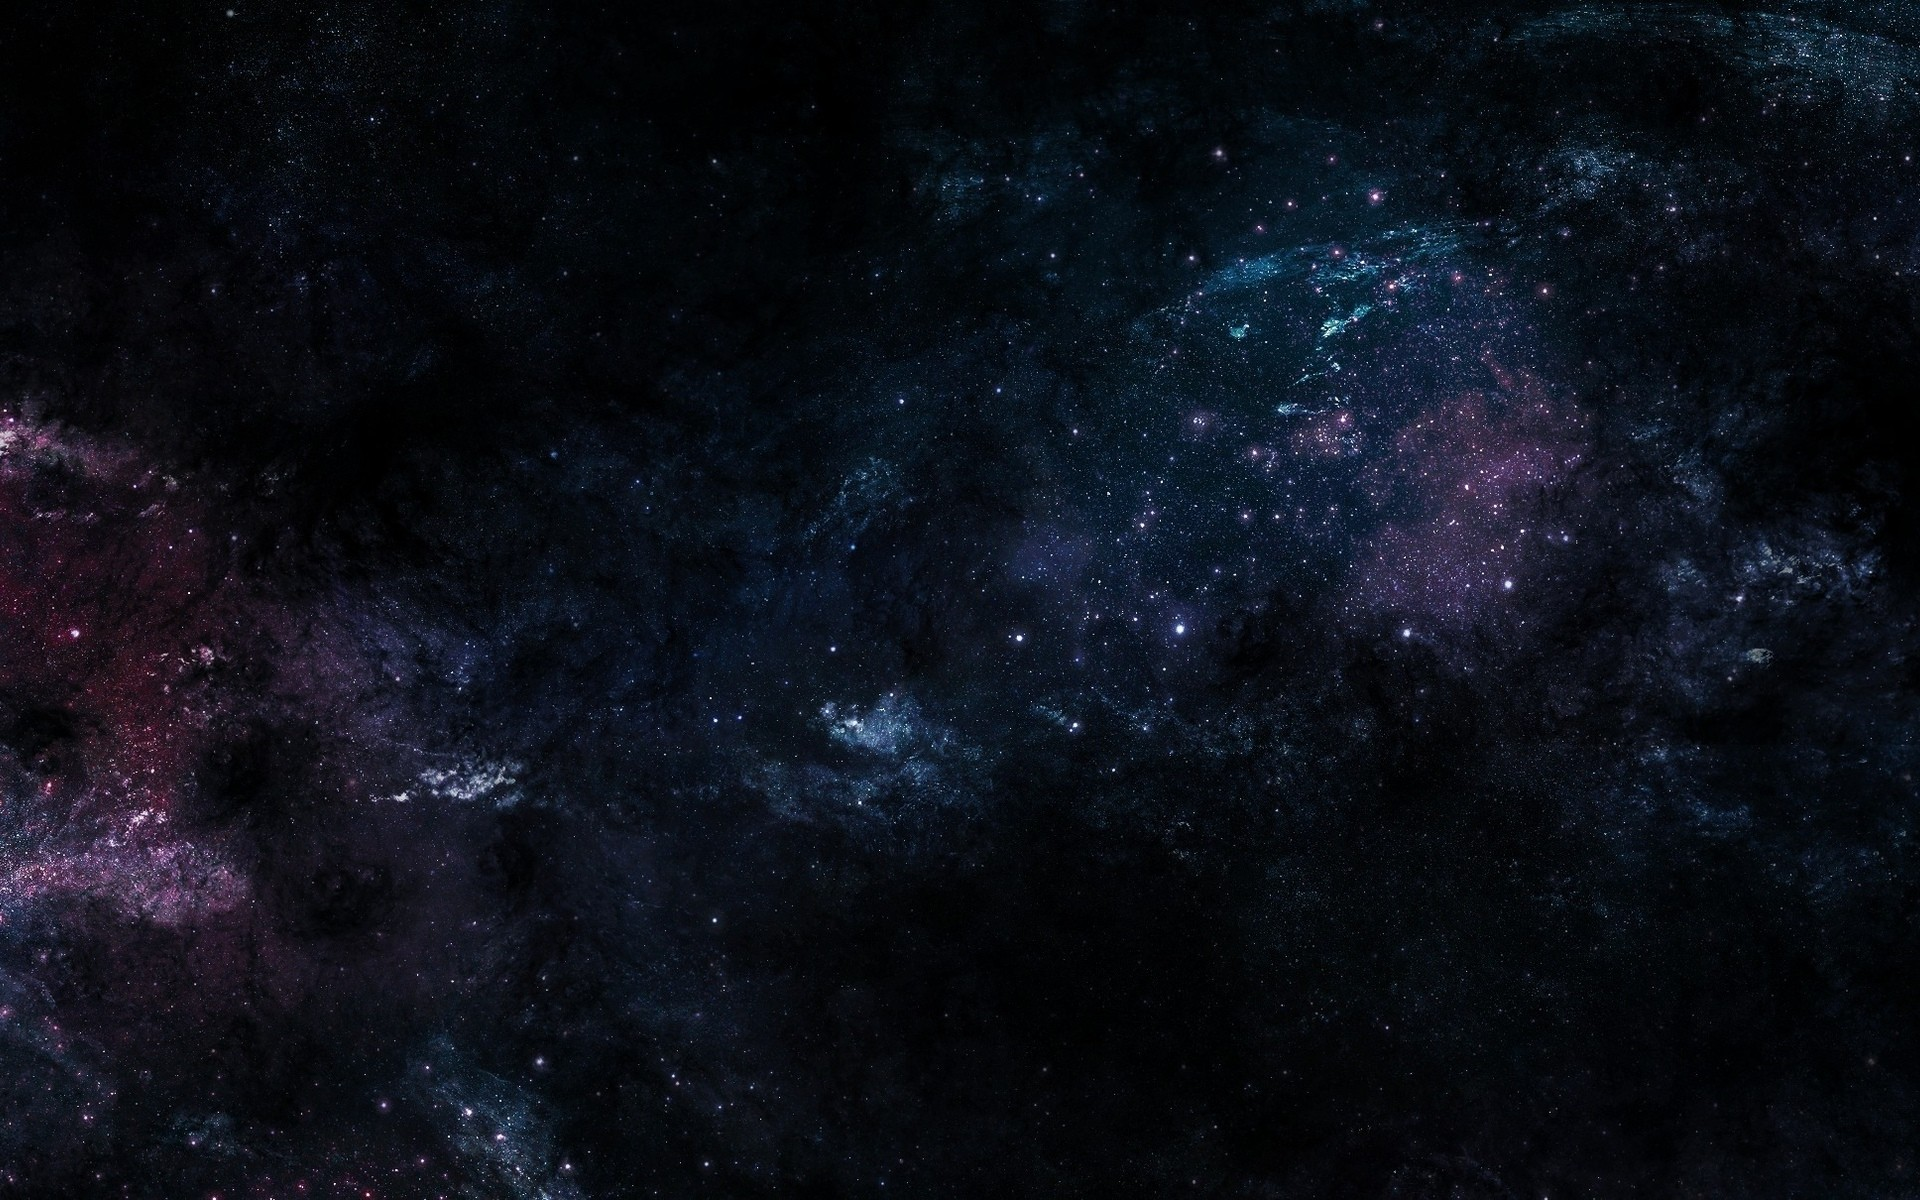
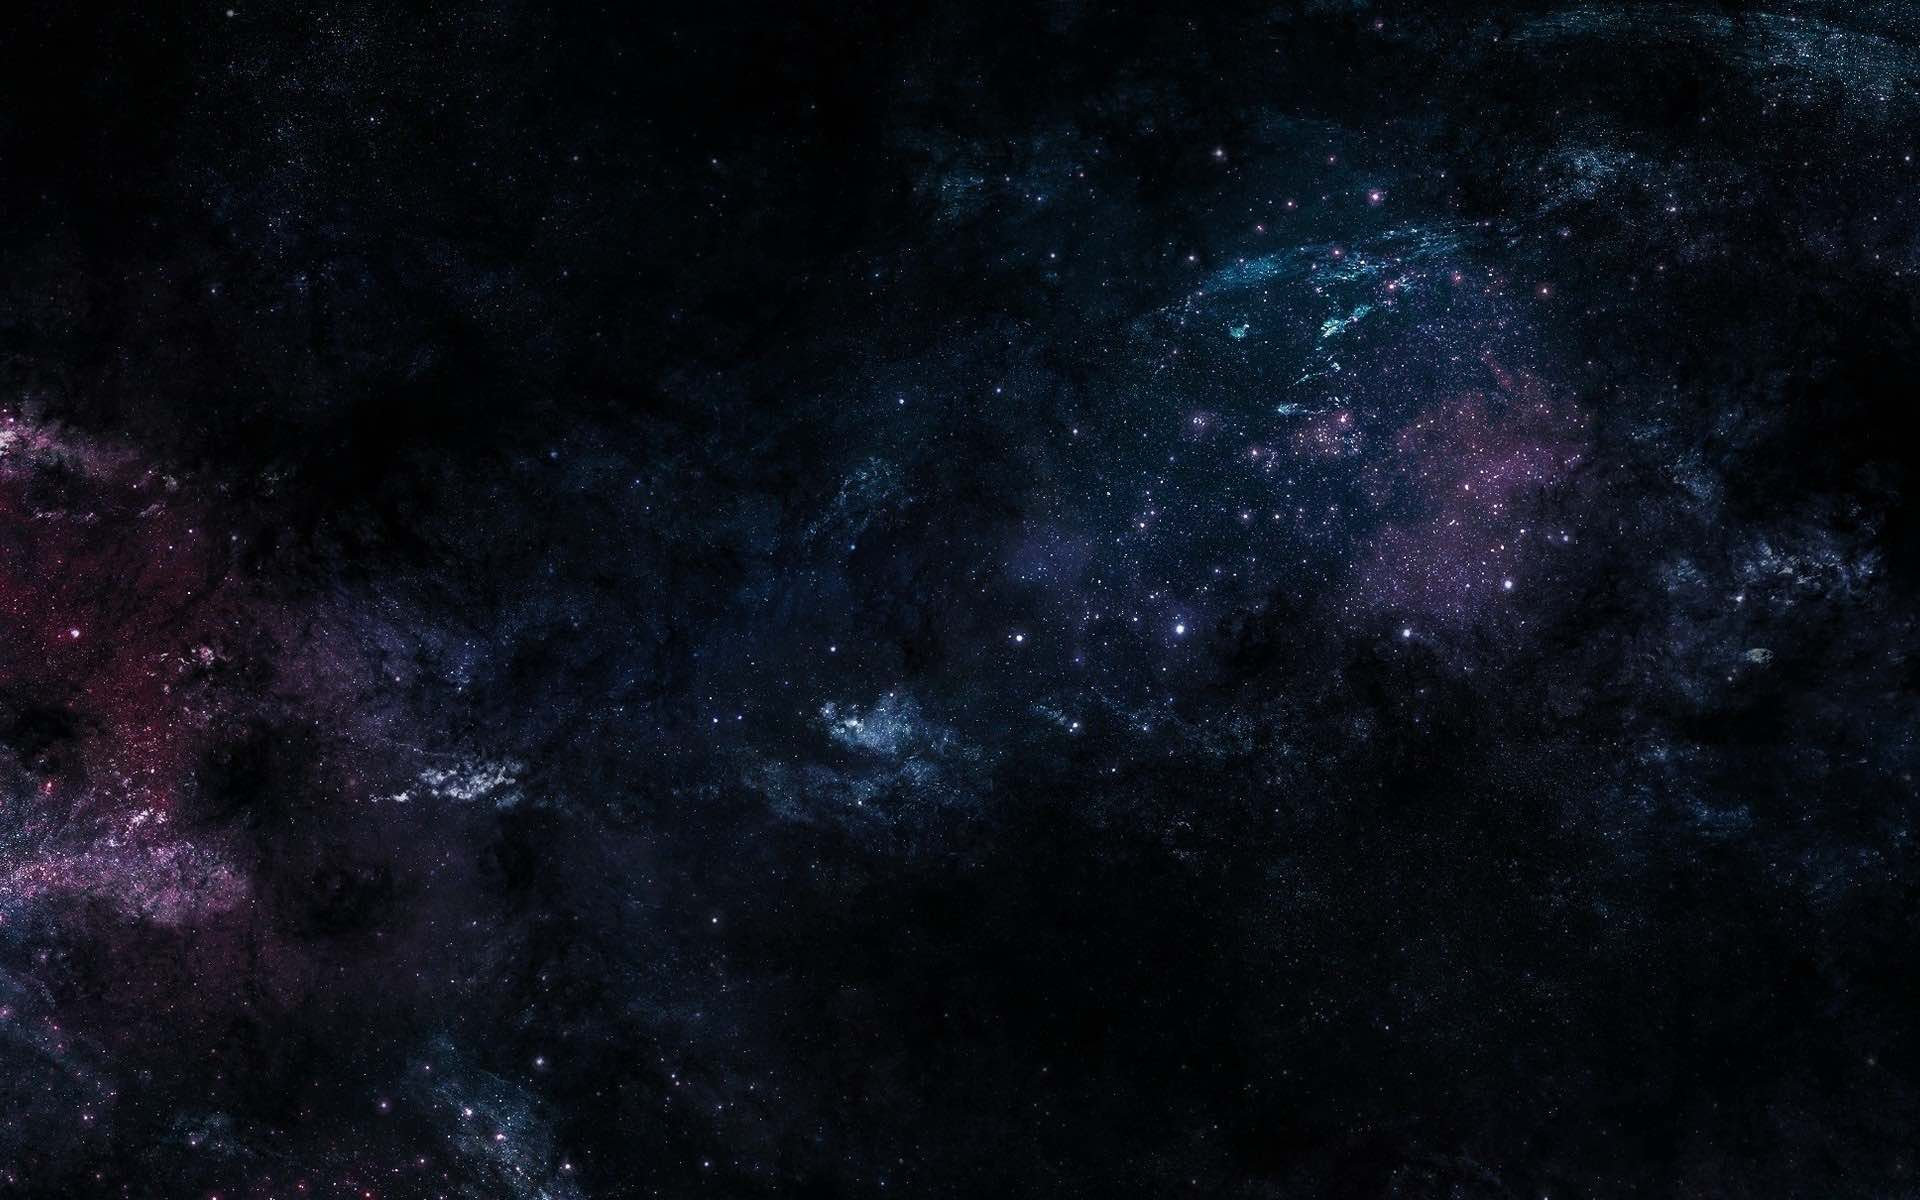
compress space image

diff --git a/index.html b/index.html
@@ -12,7 +12,7 @@
   </head>
   <body>
     <div class="parallax-window" data-parallax="scroll" data-image-src="./img/space.jpg">
-      <header>
+      <header class="sticky-header">
         <h1 class="logo"><a href="/">Melissa Eaton | Software Developer</a></h1>
         <span class="menu">
           <a href="#about-me">About</a>
@@ -20,14 +20,6 @@
           <a href="http://meaton3.wordpress.com/" target="_blank">Blog</a>
         </span>
       </header>
-      <div class="sticky-header">
-        <h1 class="logo"><a href="/">Melissa Eaton | Software Developer</a></h1>
-        <span class="menu">
-          <a href="#about-me">About</a>
-          <a href="#portfolio">Portfolio</a>
-          <a href="http://meaton3.wordpress.com/" target="_blank">Blog</a>
-        </span>
-      </div>
       <div class="headline">
         <h1>Melissa Eaton</h1>
         <h2>Software Developer</h2>
@@ -212,7 +204,7 @@
 
       window.addEventListener("scroll", function(){
         var stickyHeader = document.querySelector('.sticky-header');
-        if (window.pageYOffset > 350) {
+        if (window.pageYOffset > 400) {
           if (!stickyHeader.className.includes("sticky-header-visible")) {
             stickyHeader.classList.add("sticky-header-visible");
           }

diff --git a/css/style.css b/css/style.css
@@ -6,7 +6,7 @@ body {
   background-color: darkgray;
 }
 
-header, .sticky-header {
+header {
   width: 98%;
   padding: 10px 1%;
   display: flex;
@@ -22,7 +22,6 @@ header, .sticky-header {
   right: 0;
   z-index: -1000;
   background-color: lightgray;
-  transition: z-index 0.4s ease;
 }
 
 .sticky-header a {
@@ -63,7 +62,6 @@ header a:hover {
 }
 
 .parallax-window {
-  /*background-color: rgba(255,255,255,.25);*/
   min-height: 100%;
   background-position: bottom;
   border-bottom: 2px solid #000;
@@ -76,8 +74,12 @@ header a:hover {
 }
 
 /* Thank you http://codepen.io/diegopardo/pen/ohInj for cool .headline h1! */
+.headline h1 {
+  padding-top: 100px;
+}
+
 .headline h1, .headline h2 {
-  margin-top: 100px;
+  margin-top: 0;
   margin-bottom: 25px;
   font-size: 6em;
   text-align: center;
@@ -87,7 +89,6 @@ header a:hover {
   letter-spacing: 0.1em;
   text-shadow:
     0 0 3px mintcream,
-
     -1px 0 0 rgb(238, 238, 238),
     0 -1px 0 rgb(238, 238, 238),
     -2px -2px 2px rgba(0,0,0,0.3),
@@ -107,7 +108,6 @@ header a:hover {
   margin-top: 25px;
   margin-bottom: 100px;
 }
-
 
 .container {
   width: 60%;
